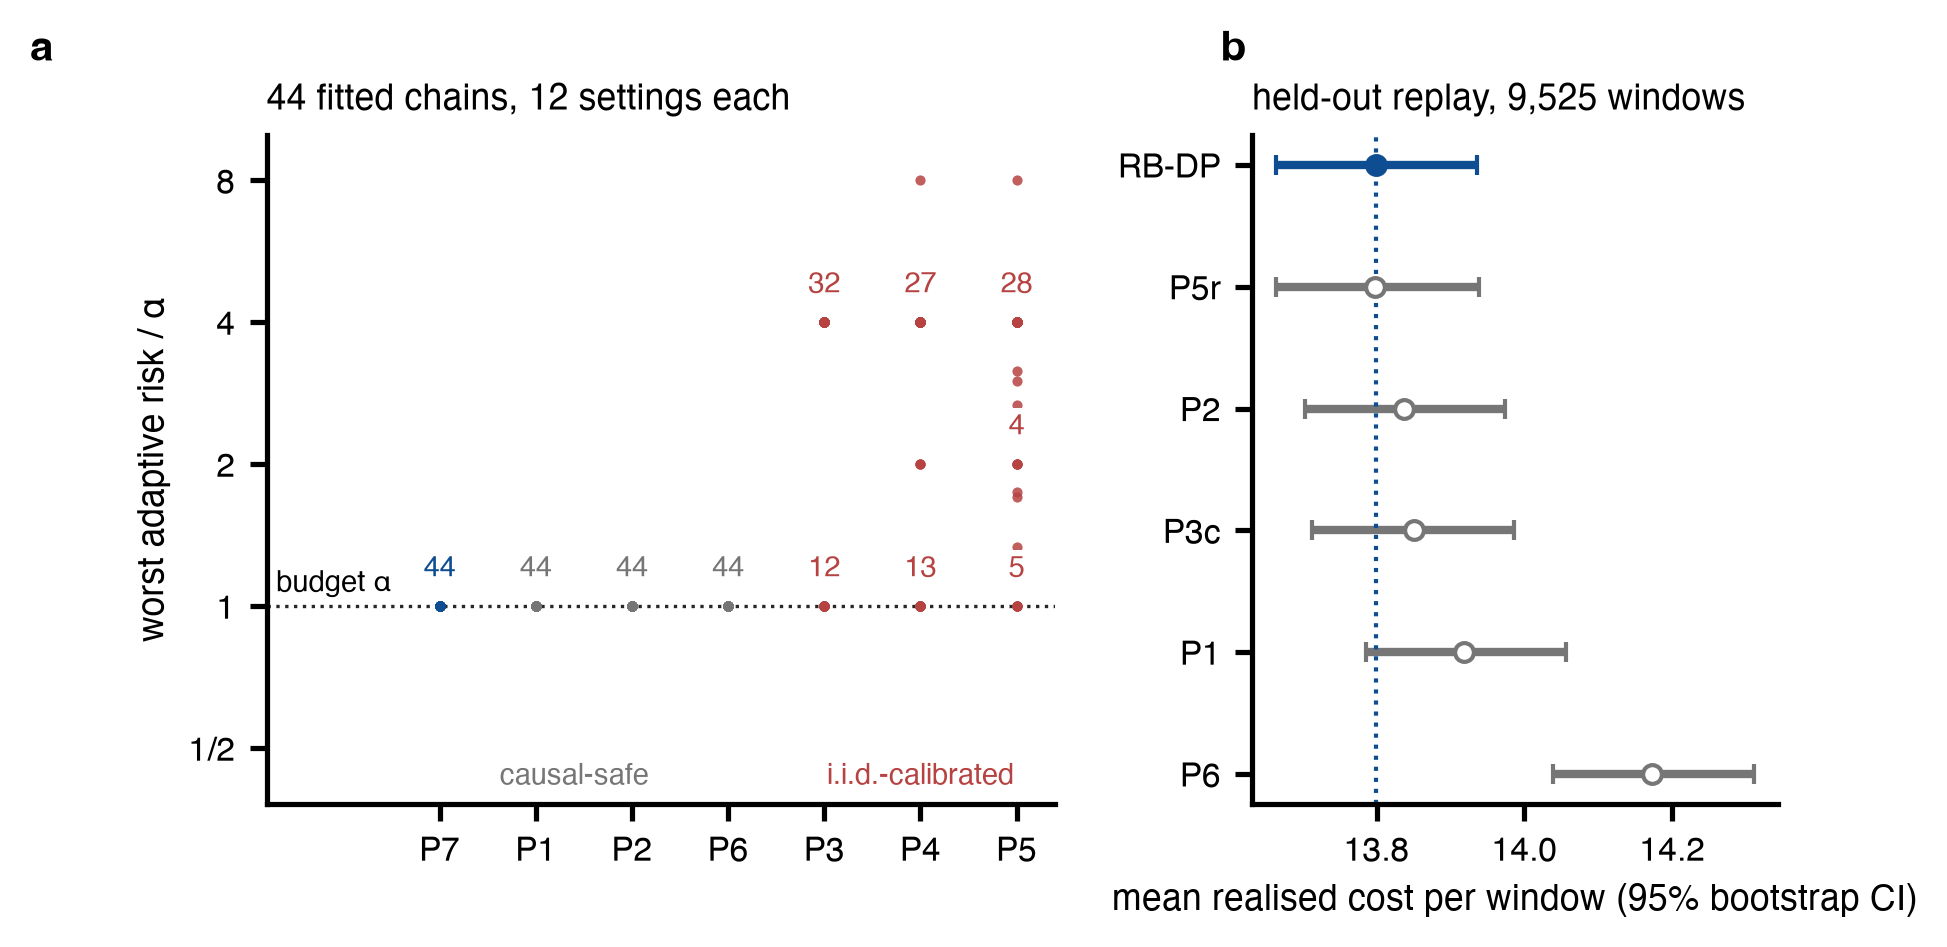
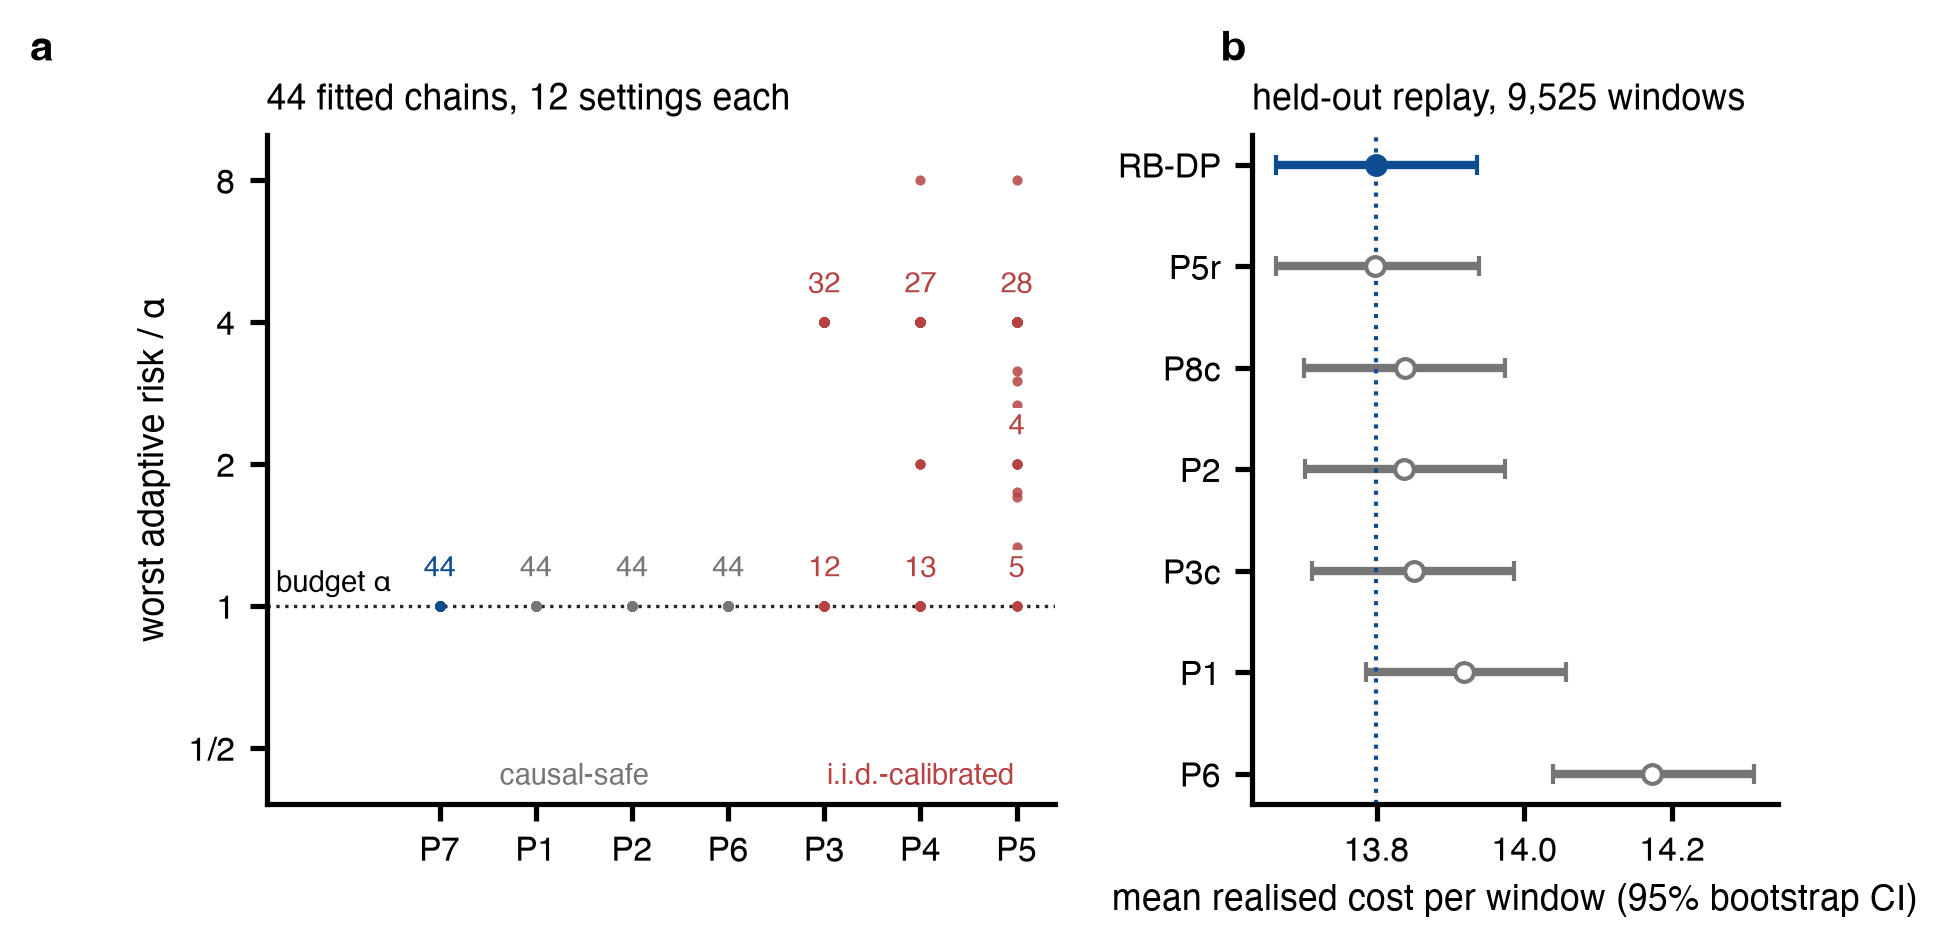
P4: add calibrated mSPRT (P8c) to Figure 6(b)
Replay panel now includes P8c, aligned window by window with the Phase 9 replay
(asserted equal P7 costs on all 100 datasets); caption defines P8c.

diff --git a/paper/p4_tmlr/figures/fig_real.py b/paper/p4_tmlr/figures/fig_real.py
@@ -4,7 +4,7 @@
 Sources:
  (a) docs/paper4_continuation/rbdp/real_data/results/phase7_baselines_T16_32/settings.jsonl
      + phase10_baselines/settings.jsonl (4 chains) + phase10c_baselines/settings.jsonl (5 chains) (44 chains x 12 settings, T in {16,32}, B in {2,3,4}, alpha in {0.05,0.1}); per chain the max over settings.
- (b) docs/paper4_continuation/rbdp/real_data/results/phase9_replay.jsonl (100 datasets, 9,525 windows,
+ (b) docs/paper4_continuation/rbdp/real_data/results/phase9_replay.jsonl + phase11_msprt_replay.jsonl (P8c) (100 datasets, 9,525 windows,
      T = 32, B = 4, alpha = 0.1, c = 0.01); window bootstrap, 2,000 resamples, seed 20261119.
 Asserted against phase10c_baselines/tally.json (key new) and len(make_tables.ORDER): chains violated by P3/P4/P5 and their maxima; pooled means equal Table 4 to 1e-3.
 """
@@ -40,11 +40,16 @@ assert max(max(worst[p].values()) for p in ("P1", "P2", "P6", "P7")) <= 1 + 1e-9
 
 # ---- (b) replay pooled cost
 rep = [r for r in read_jsonl(REAL / "phase9_replay.jsonl") if r["status"] == "replayed"]
-SAFE = ["P7", "P5r", "P2", "P3c", "P1", "P6"]
-LAB = {"P7": "RB-DP", "P5r": "P5r", "P2": "P2", "P3c": "P3c", "P1": "P1", "P6": "P6"}
+SAFE = ["P7", "P5r", "P8c", "P2", "P3c", "P1", "P6"]
+LAB = {"P7": "RB-DP", "P5r": "P5r", "P8c": "P8c", "P2": "P2", "P3c": "P3c", "P1": "P1", "P6": "P6"}
+# Phase 11 calibrated mSPRT, aligned window by window with Phase 9 (same datasets; P7 costs must coincide exactly)
+m11 = {r["id"]: r for r in read_jsonl(REAL / "phase11_msprt_replay.jsonl") if r["status"] == "replayed"}
+for r in rep:
+    assert np.array_equal(np.asarray(m11[r["id"]]["cost"]["P7"], float), np.asarray(r["cost"]["P7"], float)), r["id"]
+    r["cost"]["P8c"] = m11[r["id"]]["cost"]["P8c"]
 cost = {p: np.concatenate([np.asarray(r["cost"][p], float) for r in rep]) for p in SAFE + ["P4c"]}
 n = len(cost["P7"]); assert n == 9525, n
-TABLE4 = {"P7": 13.799, "P5r": 13.799, "P2": 13.838, "P3c": 13.850, "P1": 13.918, "P6": 14.173, "P4c": 15.834}
+TABLE4 = {"P7": 13.799, "P5r": 13.799, "P8c": 13.838, "P2": 13.838, "P3c": 13.850, "P1": 13.918, "P6": 14.173, "P4c": 15.834}
 for p, v in TABLE4.items():
     assert abs(cost[p].mean() - v) < 1e-3, (p, cost[p].mean(), v)
 rng = np.random.default_rng(20261119)

diff --git a/paper/p4_tmlr/main.tex b/paper/p4_tmlr/main.tex
@@ -257,7 +257,7 @@ In every cell of the table the i.i.d.-mode policy, evaluated against the adaptiv
 \begin{figure*}[t]
 \centering
 \includegraphics[width=0.72\linewidth]{figures/fig_real.pdf}
-\caption{Real streams. (a) For each of the 44 fitted chains, the largest worst-case adaptive risk over the 12 panel settings, in units of $\alpha$ (log scale). RB-DP (P7, blue) and the safe baselines P1, P2, P6 sit at $\alpha$; the i.i.d.-calibrated rules P3, P4, P5 exceed it on 40 of 44 datasets, by up to $8\alpha$. P1 fixed-sample test; P2 count SPRT; P3c HMM filter, recalibrated; P5r i.i.d.-optimal planner, repaired for adaptive risk; P6 e-process gate. In (a), the number above a point counts the chains with that worst-case ratio. (b) Held-out replay: pooled mean realised cost per window of the safe policies with 95\% window-bootstrap intervals (2{,}000 resamples, seed 20261119). P4c (15.83) is off the scale and omitted.}
+\caption{Real streams. (a) For each of the 44 fitted chains, the largest worst-case adaptive risk over the 12 panel settings, in units of $\alpha$ (log scale). RB-DP (P7, blue) and the safe baselines P1, P2, P6 sit at $\alpha$; the i.i.d.-calibrated rules P3, P4, P5 exceed it on 40 of 44 datasets, by up to $8\alpha$. P1 fixed-sample test; P2 count SPRT; P3c HMM filter, recalibrated; P5r i.i.d.-optimal planner, repaired for adaptive risk; P6 e-process gate; P8c mixture SPRT (always-valid A/B test), recalibrated. In (a), the number above a point counts the chains with that worst-case ratio. (b) Held-out replay: pooled mean realised cost per window of the safe policies with 95\% window-bootstrap intervals (2{,}000 resamples, seed 20261119). P4c (15.83) is off the scale and omitted.}
 \label{fig:real}
 \end{figure*}
 
